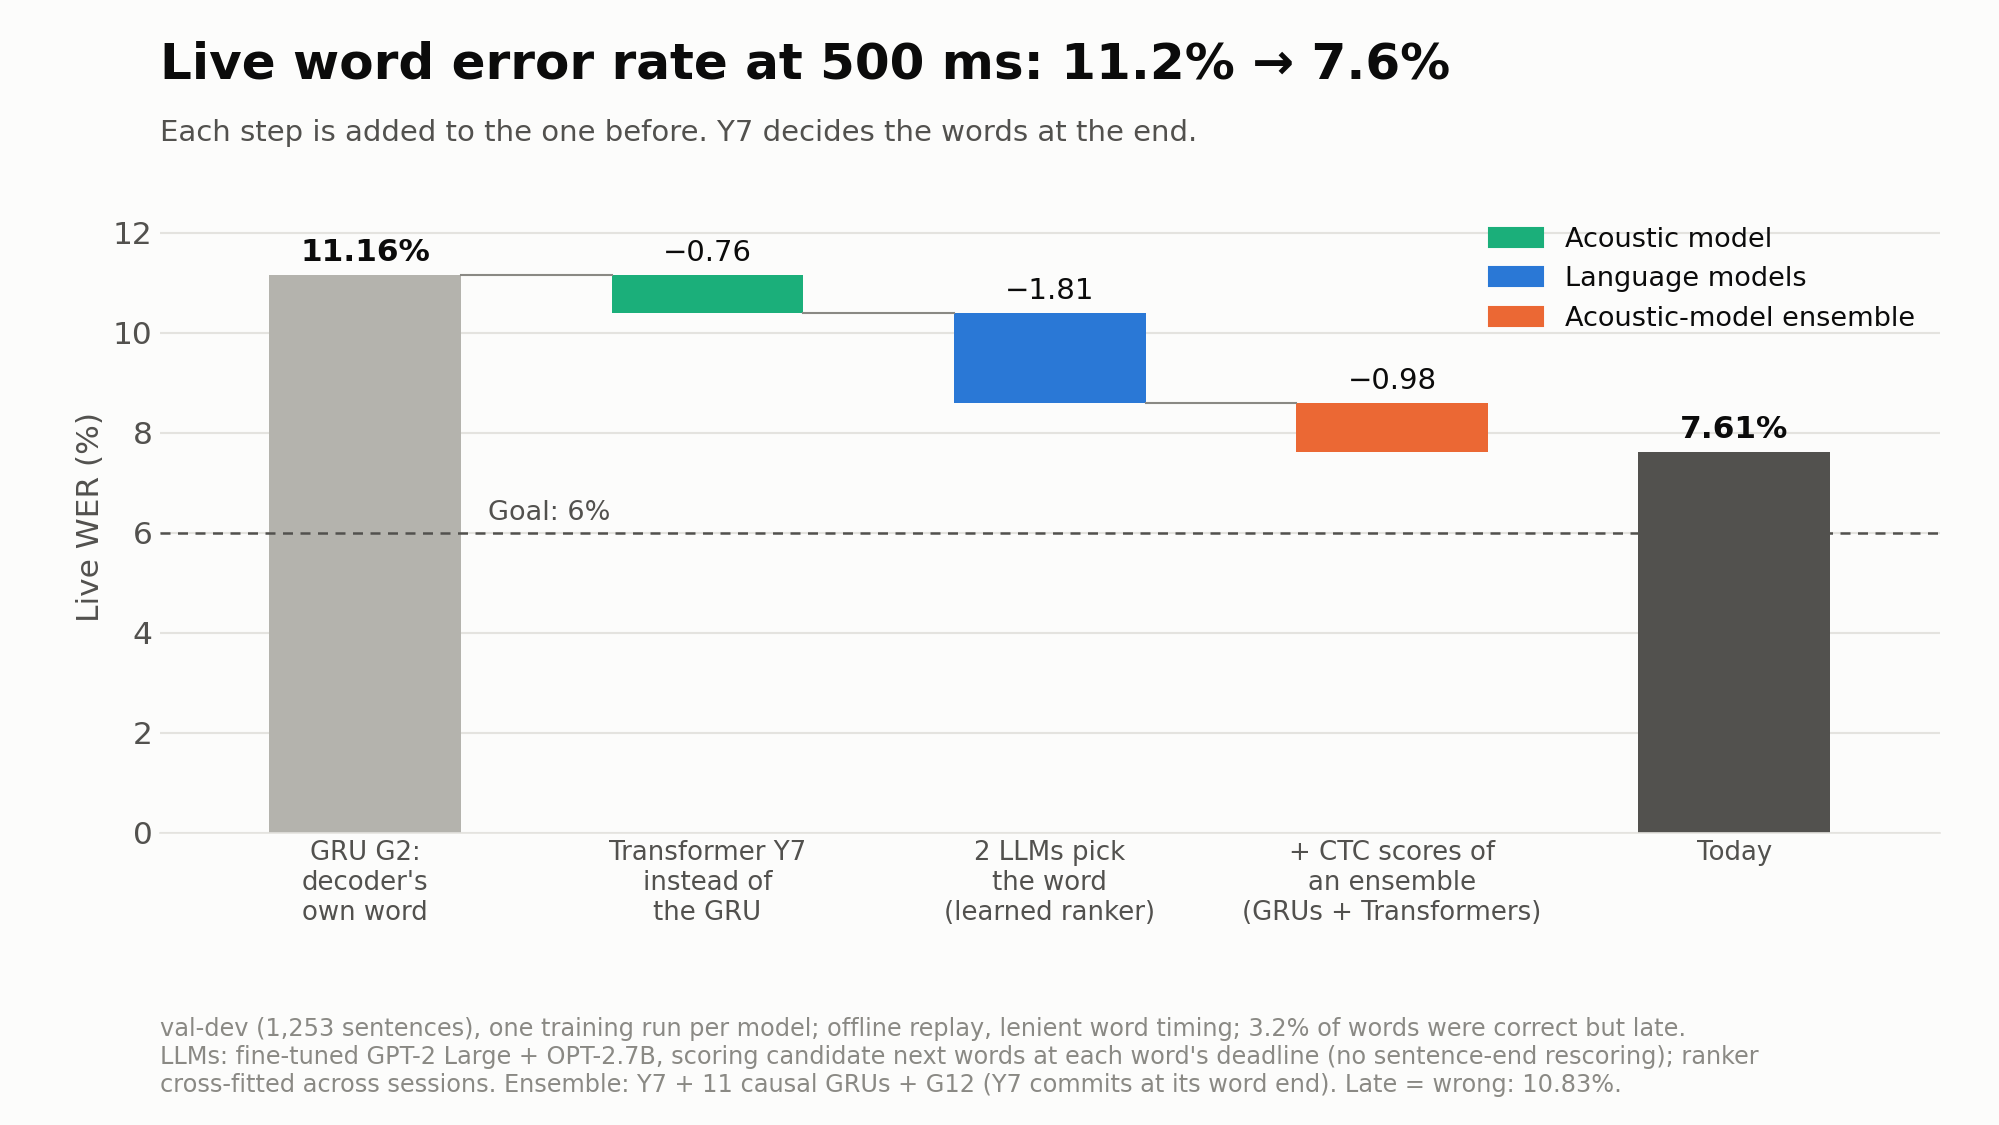
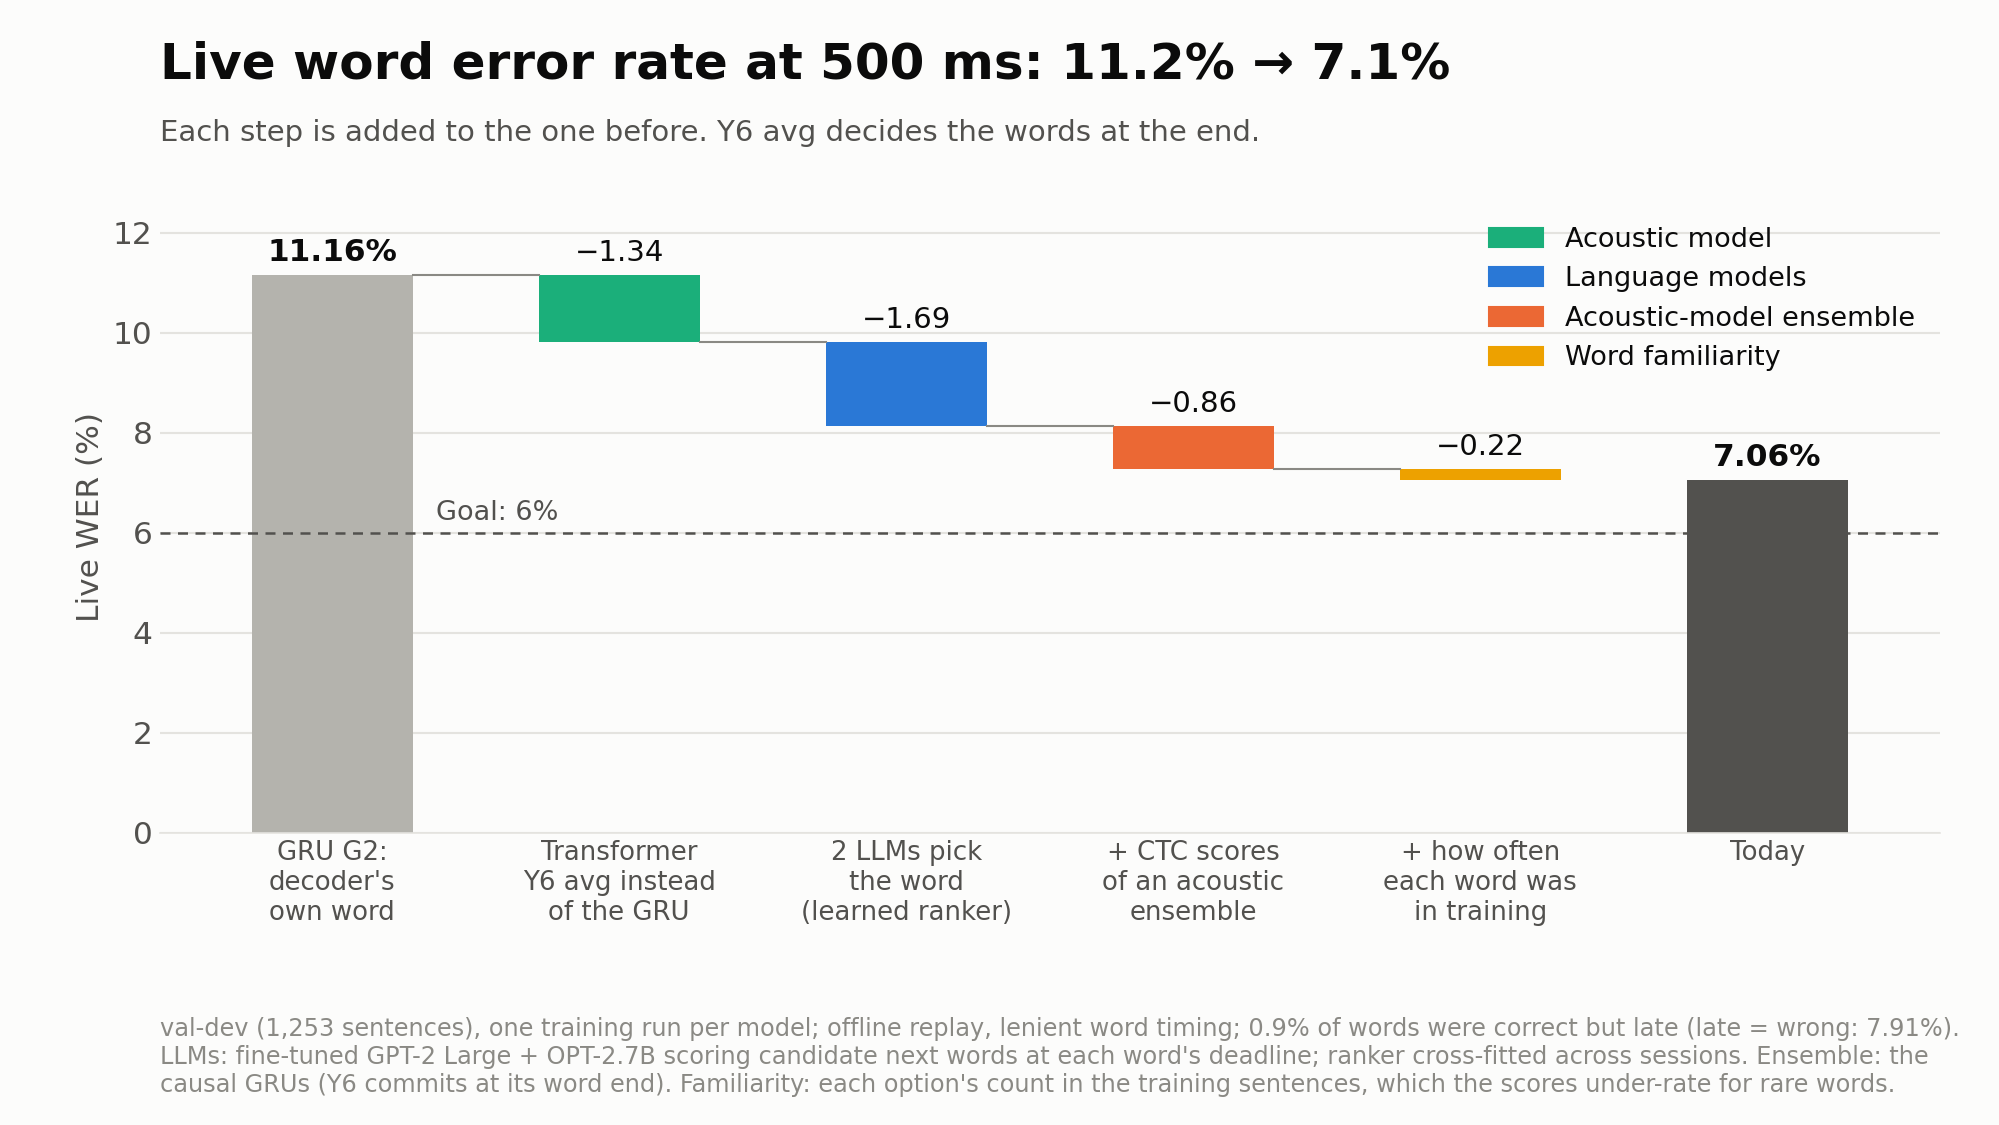
README: 2026-11-18 results and regenerated charts
Live WER 8.64 / 7.06 / 6.51% at 200 ms / 500 ms / 1.5 s with one decoder (word-familiarity features in the ranker;
the Y6 average decides at 500 ms and 1.5 s), 6.77 / 6.48% with a second decoder's votes.

diff --git a/README.md b/README.md
@@ -9,30 +9,34 @@ unchanged.
 shown within 200 ms, 500 ms or 1.5 s of the moment the participant finished attempting it. Whole-sentence
 (bidirectional) acoustic models are excluded, and rescoring after the sentence ends does not count.
 
-## Status (2026-11-17)
+## Status (2026-11-18)
 
 <picture>
   <source media="(prefers-color-scheme: dark)" srcset="docs/images/dark/02_best_possible.png">
-  <img src="docs/images/light/02_best_possible.png" alt="Bar chart of the best word error rate at each time limit. Live words: 8.81% at 200 ms, 7.61% at 500 ms, 7.42% at 1.5 s. After the sentence: 5.47%. Goal: 6%.">
+  <img src="docs/images/light/02_best_possible.png" alt="Bar chart of the best word error rate at each time limit. Live words with one decoder: 8.64% at 200 ms, 7.06% at 500 ms, 6.51% at 1.5 s; with a second decoder 6.77% and 6.48%. After the sentence: 5.47%. Goal: 6%.">
 </picture>
 
 | Time limit after the word ends | Live word error rate | Late words counted as errors | Deciding model | CTC ensemble |
 |---|---|---|---|---|
-| 200 ms | 8.81% | 10.90% | GRU D1 (causal) | 11 causal GRUs |
-| 500 ms | 7.61% | 10.83% | Transformer Y7 | 11 causal GRUs, GRU G12, Y7 |
-| 500 ms | 8.18% | 8.86% | GRU G2 | 19 GRUs, 3 Transformers |
-| 1.5 s | 7.42% | 8.07% | Transformer Y7 | 22 GRUs, 3 Transformers |
+| 200 ms | 8.64% | 10.77% | GRU D1 (causal) | 11 causal GRUs |
+| 500 ms | 7.06% | 7.91% | Transformer Y6 (averaged weights) | 11 causal GRUs, Y6 |
+| 500 ms, with a second decoder | 6.77% | 7.76% | Y6, with GRU D2's candidates voting | the same |
+| 1.5 s | 6.51% | 6.91% | Transformer Y6 (averaged weights) | 22 GRUs, 3 Transformers, Y6 |
+| 1.5 s, with a second decoder | 6.48% | 6.74% | Y6, with GRU G11's candidates voting | the same |
 | After the sentence (not the target) | 5.47% | - | Transformer Y6 | none; GPT-2 Large rescores the decoder's 100 best sentences |
 
 Each live result comes from a full system, not one model. The deciding acoustic model and its 4-gram decoder
 propose candidates for the next word, and at each word's deadline a learned ranker picks one, using two language
-models (fine-tuned GPT-2 Large and OPT-2.7B) and the CTC scores of an ensemble of acoustic models. D1 and G2 are
-1,344-unit GRUs, G2 with 160 ms of look-ahead. Y6 and Y7 are 9.7M-parameter Transformers trained with the LightBeam
-recipe (Feghhi et al. 2026); Y7 looks 160 ms ahead and Y6 80 ms. Every model and its letter ID is listed in
-[`harness/registry/MODELS.md`](harness/registry/MODELS.md).
+models (fine-tuned GPT-2 Large and OPT-2.7B), the CTC scores of an ensemble of acoustic models, and how often each
+candidate word occurs in the training sentences (the language models and the decoder under-rate rare words, which
+hold two thirds of the errors). D1 is a causal 1,344-unit GRU. Y6 is a 9.7M-parameter Transformer trained with the
+LightBeam recipe (Feghhi et al. 2026) with 80 ms of look-ahead; a second training seed (Y10) gives the same
+sentence-end WER (6.95 vs 6.97). In the second-decoder rows another decoder runs alongside and its candidates vote;
+its language-model time is charged, but the two decoders have not yet been run side by side. Every model and its
+letter ID is listed in [`harness/registry/MODELS.md`](harness/registry/MODELS.md).
 
-The two 500 ms rows trade off: Y7 picks better words than G2 but marks word ends later, so 3.2% of its words were
-correct but shown after the deadline (G2: 0.7%). No Transformer reliably meets 200 ms yet.
+No Transformer has been run through the ranker at 200 ms yet: Y6 marks word ends late (95th percentile 360 ms after
+the word). Y13, Y6 trained with shorter time masks, marks them within 120 ms but loses about a point of WER.
 
 These are on the project's validation partition of the public B2T '25 data ("val-dev": 1,253 trials, 8,277 words,
 35 sessions, one participant). Read them as exploratory:
@@ -51,20 +55,20 @@ A second track on the Makin lab's ECoG dataset is intended; access and integrati
 
 <picture>
   <source media="(prefers-color-scheme: dark)" srcset="docs/images/dark/01_live_wer_waterfall_500ms.png">
-  <img src="docs/images/light/01_live_wer_waterfall_500ms.png" alt="Waterfall chart of live word error rate at 500 ms: GRU G2's own words 11.16%; Transformer Y7 instead of the GRU -0.76; two language models choosing the word -1.81; CTC scores of an acoustic-model ensemble -0.98; result 7.61%.">
+  <img src="docs/images/light/01_live_wer_waterfall_500ms.png" alt="Waterfall chart of live word error rate at 500 ms: GRU G2's own words 11.16%; Transformer Y6 instead of the GRU -1.34; two language models choosing the word -1.69; CTC scores of an acoustic-model ensemble -0.86; word familiarity -0.22; result 7.06%.">
 </picture>
 
 ### GRU or Transformer, one acoustic model each
 
 <picture>
   <source media="(prefers-color-scheme: dark)" srcset="docs/images/dark/03_gru_vs_transformer.png">
-  <img src="docs/images/light/03_gru_vs_transformer.png" alt="Bar chart of one GRU against one Transformer with the same language models: 500 ms 8.88% vs 8.59%, 1.5 s 8.66% vs 8.53%, sentence end 6.10% vs 5.58%, no time limit 5.76% vs 5.47%; at 200 ms only the GRU, 9.53%.">
+  <img src="docs/images/light/03_gru_vs_transformer.png" alt="Bar chart of one GRU against one Transformer with the same language models: 500 ms 8.88% vs 8.13%, 1.5 s 8.66% vs 8.00%, sentence end 6.10% vs 5.47%, no time limit 5.76% vs 5.47%; at 200 ms only the GRU, 9.53%.">
 </picture>
 
 ## What this repository adds
 
 - **Streaming acoustic models** (`model_training/`): causal GRUs with a bounded look-ahead of 80 ms to 1.9 s, and
-  causal Transformers (so far only the plain causal variant streams, through a per-layer cache). 82 training runs
+  causal Transformers (so far only the plain causal variant streams, through a per-layer cache). 86 training runs
   are registered.
 - **A pipeline harness** (`harness/`, [README](harness/README.md)): full validation benchmarks with a streaming
   timing check, paired comparisons, decode sweeps, word-commitment analyses, n-best rescoring, retraining with a
